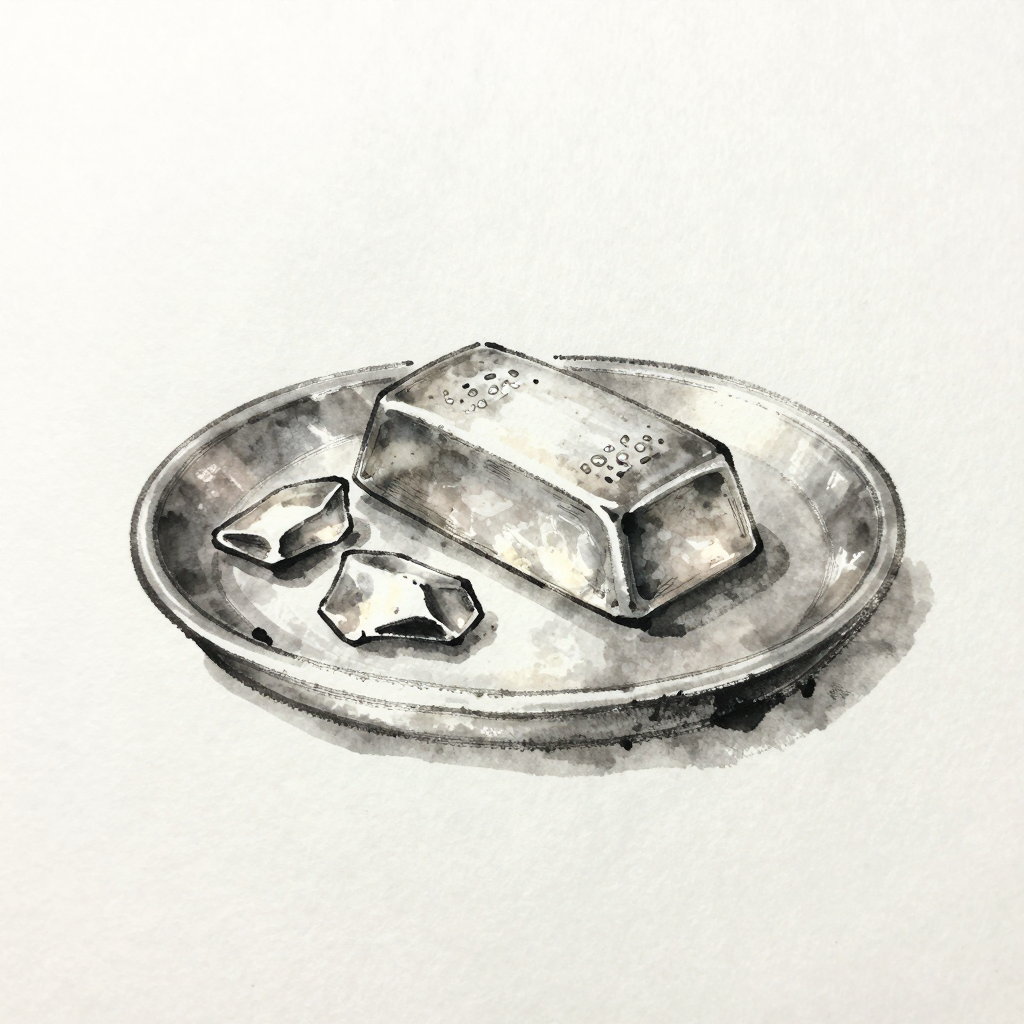
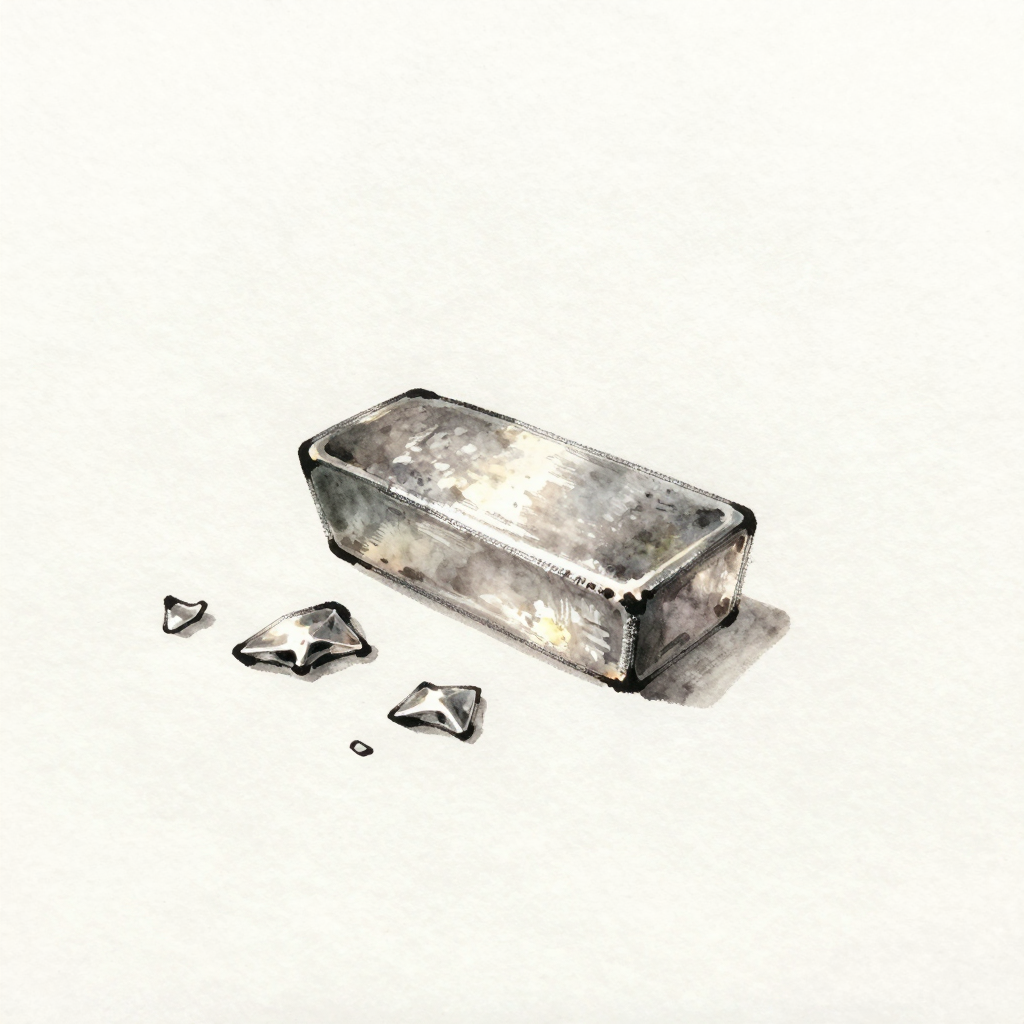
账簿贴图返工：去掉母题带出的多余器物，并新增生图纪律文档
发现第三批验收有漏项：当时只查「零人物/无可读文字/主体居中」，没查「画面里的
器物是否属于这一笔账目」。拼图复核 14 张后发现 5 张有多余器物：
- 封肃地租银：多一只托盘（母题写「静置托盘之上」，与 STYLE_OBJECT「不要画盘子托着它」直接冲突）
- 雨村二两：多一只粗陶碟
- 烧埋银子：多一盏孤灯
- 甄家谢礼：多一整套茶罐杯罐
- 贾政官印：印面是能读的篆字（违反「不要文字」）

根因：母题是唯一被真正渲染的正文，风格基底里的否定句权重很低。母题里出现的
任何名词都会被画出来——包括承托物与陪衬。修法是从母题里删掉，不是加否定句。

- 重生成 5 张（串行、--keep-old 零删除），母题改为只写主体本身与自身纹理，
  官印改用「兽形印钮 + 光素印面」的形状描述以免画成普通石块
- 命名归一化：生效图升回 -01.png，旧图归档为 _v{n}，零删除
- webp 与生效源图用 64x64 灰度 MSE 对齐（webp 有损，MD5 不可用），实测 d=0.52~0.63
- 线上核验：五张均为新图（与新源图 d≈0.5，与旧 _v2 d=34~50）
- 新增 docs/production/art-prompting.md：母题写法、逐条验收清单、--keep-old 双落盘
  路径与命名归一化、webp 的 MSE 对齐、串行队列与报错判读
- art.md / verification.md / README.md 建立入口与故障条目

验证：check:content 通过（文档 17→18）、49 单测绿、online-ledger 线上复验绿、
已部署 stone.yan.pub（服务器端 443→200）

Changed region(s): [[0.125, 0.3125, 0.9375, 0.7812]]

diff --git a/art/cards/gen_ledger.py b/art/cards/gen_ledger.py
@@ -37,6 +37,12 @@ os.makedirs(PUB, exist_ok=True)
 #    甚至在荒田朽屋这种绝不该有瓶子的场景里立一只巨瓶。
 #    —— 故把风格基底拆成两套：器物用「只有母题那一两件东西、其余全空」，
 #    风景用「只有自然景物、没有任何器物」，并且不再出现会召唤瓶罐的品类词。
+# 4) 【最关键的一条】母题是唯一被真正渲染的正文，风格基底里的否定句权重很低。
+#    母题写了「静置托盘之上」「置于粗陶碟中」「旁边一盏孤灯」「什物杂陈」，
+#    模型就把托盘/碟子/灯/茶罐画了出来——哪怕 STYLE_OBJECT 明写「不要画盘子托着它」。
+#    推论：**母题里出现的任何名词都会被画出来**，所以母题只准包含该笔账目
+#    真正涉及的东西，连「陪衬」都不行；承托物（盘、碟、案、桌）同样是多出来的。
+#    验收清单也必须逐条查「器物是否属于这一笔」，只查「零人物/无文字」会漏。
 STYLE_BASE = ("手绘插画风格：写意水墨、潇洒笔触、大面积留白；"
               "保留明显手绘笔压、停顿与轻微不齐整感，让轮廓产生真实纸上绘制的节奏；"
               "上色保留透明叠染、柔软边缘和纸纹，允许轻微颜色不均与留白。"
@@ -68,22 +74,22 @@ STYLE_LAND = (STYLE_BASE +
 SUBJECTS = {
     # --- 银两 money ---
     "ledger.yucun-winter-clothes": ("两件厚实的旧棉冬衣平铺叠放，灰蓝布面、絮棉微露、针脚粗朴，占据画面中央", STYLE_OBJECT),
-    "ledger.fengsu-land-money": ("一锭白银与几枚散碎银角静置托盘之上，金属泛冷光、边缘磨损，占据画面中央", STYLE_OBJECT),
+    "ledger.fengsu-land-money": ("一锭白银与几枚散碎银角并排散在画面中央，金属泛冷光、边缘磨损，四周一片空白", STYLE_OBJECT),
     "ledger.shiyin-poor-land": ("一片荒薄田地，远处几间歪斜朽屋，茅草零落、篱笆残破，空旷寂寥的远景风景，占据画面中央", STYLE_LAND),
-    "ledger.yucun-fengsu-2liang": ("两枚小银锭并排置于粗陶碟中，器皿朴拙、光泽内敛，占据画面中央", STYLE_OBJECT),
+    "ledger.yucun-fengsu-2liang": ("两枚小银锭并排卧在画面中央，形体敦实、光泽内敛、边缘有细密錾纹，四周一片空白", STYLE_OBJECT),
     "ledger.zhen-silver": ("两封束好的银子以红纸包就，封口压痕可见，静静并列，占据画面中央", STYLE_OBJECT),
     "ledger.zhen-brocade": ("四匹锦缎层层叠放成一摞，织金云纹在缎面流动、边缘垂坠，占据画面中央", STYLE_OBJECT),
     "ledger.fengsu-baijin": ("一只鼓胀饱满的锦囊静置案上，囊口金线束紧、垂坠如水，占据画面中央", STYLE_OBJECT),
-    "ledger.zhen-thanks-goods": ("数件什物杂陈：布匹、茶罐、纸包散而不乱，静物一组，占据画面中央", STYLE_OBJECT),
+    "ledger.zhen-thanks-goods": ("两三份用红纸包好、用细绳捆扎的谢礼包裹，并排散在画面中央，纸面有细密折痕与绳结", STYLE_OBJECT),
     "ledger.fengyuan-silver": ("一只旧木箱敞开，内中白银满箱、缎光溢出箱沿，占据画面中央", STYLE_OBJECT),
-    "ledger.feng-burial-silver": ("素白封套内裹着纸钱与银锭，旁边一盏冷落孤灯，静物一组，占据画面中央", STYLE_OBJECT),
+    "ledger.feng-burial-silver": ("一只素净的白色封套半开着，里头露出几张纸钱与两枚小银锭，封套皱折、纸钱微露边角，占据画面中央", STYLE_OBJECT),
     # --- 衣物 clothing ---
     "ledger.xifeng-cloth": ("两匹裁好的缎子折叠齐整，缎面流光、边幅未动，占据画面中央", STYLE_OBJECT),
     # --- 物件 item ---
     # 荐书是「一纸文书」，鱼符是刻鱼形的木牌，都不是活物，更不是瓶子。
     "ledger.ruhai-recommendation": ("一枚扁平的长方形木牌，上面刻着一条鱼的纹样，木纹清晰，占据画面中央", STYLE_OBJECT),
     # 官凭是「盖了朱印的空纸」，纸面不写名字；印是另一枚器物，可以有。
-    "ledger.zheng-restoration": ("一枚小小的方形官印立着，印面朝前，印面刻着简洁的阳文纹样，占据画面中央", STYLE_OBJECT),
+    "ledger.zheng-restoration": ("一方小巧的官印仰卧在画面中央，顶部雕着一只蜷曲的兽形印钮，印面朝上完全光素、没有任何字或纹样，印身是细腻的青石并镶着一圈暗红边", STYLE_OBJECT),
     "ledger.yucun-letters": ("一只素净的白信封，封缄压好，封皮上没有任何字迹，占据画面中央", STYLE_OBJECT),
 }
 

diff --git a/docs/production/art-prompting.md b/docs/production/art-prompting.md
@@ -1,0 +1,196 @@
+# 生图纪律：母题、验收与落盘
+
+> 适用范围：本项目一切 AI 生图（册页卡片、账簿贴图、人物立绘、家具批次）。
+> 上级规范见 [画风、角色与资产生产](art.md)；通用工具纪律见 `.local-tools/local-image-studio/SKILL.md`。
+> 来源：账簿贴图四轮迭代（`e124514`、`274d4c6`）与一次返工（本文档记录的那次）。
+
+## 一、核心心法
+
+> **母题里出现的任何名词都会被画出来。**
+>
+> 风格基底里的否定句权重很低；母题才是被真正渲染的正文。
+> 所以「不要什么」写在母题里没用——**要把「不要」的东西从母题里拿掉**。
+
+这是一条贯穿全文的规则。下面所有细则都是它的推论。
+
+## 二、四轮迭代的教训
+
+账簿 14 张贴图走了四轮才合格，每轮暴露一类问题：
+
+| 轮次 | 问题 | 根因 | 修法 |
+| --- | --- | --- | --- |
+| 一 | 7/11 张出现「裁头人物」 | 母题写「置于案上」，诱出半身人物去摆东西 | 正文写死「无人物、人体、面孔、手臂、衣袍」 |
+| 二 | 4 张生图脚本直接崩 | `--keep-old` 下旧图已改名，`dest` 原路径不存在 | 统计实际落盘的那个文件，不是原路径 |
+| 三 | 瓶+罐+碗三件套；荒田朽屋里立起巨瓶 | 「古风器物」「静物」是**绘画品类词**，模型照静物范式摆陪衬 | 删掉品类词，风格基底拆成器物/风景两套 |
+| 四 | 托盘、碟子、孤灯、茶罐、什物杂陈 | **母题自己写了这些陪衬物** | 从母题里删掉承托物与陪衬，只留主体 |
+
+第四轮最关键：修完母题才发现前一轮的验收清单**本身就漏了一项**——当时只查「零人物 / 无可读文字 / 主体居中」，没查「画面里的器物是否属于这一笔账目」。
+
+> **教训：验收清单也会漏项。清单要逐条对照母题写，不能凭印象列。**
+
+## 三、母题怎么写
+
+### 3.1 不谈品类，只谈「这一件东西」
+
+品类词（器物、静物、古风、美食）自带范式，模型会照范式补齐陪衬。
+
+```
+❌ "古风器物：白银与锦缎"          → 银、缎、瓶、罐、碗一起出现
+❌ "静物一组：布匹、茶罐、纸包"      → 母题列什么就画什么，还会被补齐
+✅ "一锭白银与几枚散碎银角并排散在画面中央，四周一片空白"
+```
+
+器物类与风景类要**分开写风格基底**：
+
+| 类别 | 风格基底要点 |
+| --- | --- |
+| 器物 | 主体占画面大部分，其余完全是空白的宣纸；不画桌子、不画盘子托着它、不添置瓶瓶罐罐 |
+| 风景 | 只有自然景物与破败屋舍；不出现任何器物、器皿、人物 |
+
+### 3.2 承托物也是多出来的
+
+「静置**托盘**之上」「置于粗陶**碟**中」「**案**上」——这些词会各自画出一件器物。
+
+即使风格基底写着「不要画盘子托着它」，只要母题写了「托盘」，模型就会画托盘（实测：托盘照画不误）。
+
+**母题只写主体本身，以及主体自身的纹理、颜色、光泽，不写它放在哪儿。**
+
+### 3.3 主体要完整居中
+
+```
+✅ "占据画面中央"、"四周一片空白"
+✅ "主体完整、居中"
+```
+
+「置于案上」让主体被裁或被陪衬挤到边角；「摆在中央」才留得住。
+
+### 3.4 语义要精确到不歧义
+
+| 母题 | 实际画成 | 改法 |
+| --- | --- | --- |
+| 「半枚鱼符」 | 一条活鱼 | 「刻着一条鱼形纹样的木牌」 |
+| 「盖着朱红方印的空白官凭」 | 纸上出现可读红字「怡红院」 | 「一枚小小的方形官印立着」 |
+| 「印面刻着简洁的阳文纹样」 | 印面是能读的篆字 | 「朝上的一面是一块完全光素的平面、像未经刻字的素石」 |
+| 「印面朝前的一块素石」 | 一块普通方石 | 「顶部雕着一只蜷曲的兽形印钮」 |
+
+「纹样」会被理解成文字，「素石」会被理解成石头——**这类词要换成几何描述**。
+
+### 3.5 负向提示词不可靠
+
+zimage 的 `cfg=1.0`，`--negative` 参数**存在但官方忽略**。只能靠正向正文约束，即：把不该出现的从母题里删掉，而不是加否定句。
+
+## 四、验收清单
+
+每张图逐条对照，**逐条**过，不凭印象：
+
+- [ ] **画面里的每一件东西，都能在母题里找到出处**（含承托物、陪衬）
+- [ ] 主体完整、居中，未被裁切、未被陪衬挤到边角
+- [ ] 无人物、人体、面孔、手臂、衣袍
+- [ ] 无可读文字、拉丁字母、水印、签名；「纹样」处不是能读的字
+- [ ] 其余是空白宣纸，没有多出来的桌、案、盘、碟、罐、灯
+- [ ] 风格与项目一致（写意水墨、留白、纸纹）
+- [ ] 尺寸与落点符合该批次的运行约定
+
+**用拼图审图，不要一张张看。** 14 张各看一遍容易漏；拼成 4×4 网格一眼就能看出哪格多了东西。拼图脚本见下。
+
+```sh
+/opt/homebrew/bin/python3 - <<'PY'
+import os, glob
+from PIL import Image
+names = sorted(os.path.basename(p)[:-4] for p in glob.glob('art/cards/source/ledger_*.png')
+               if '_v' not in os.path.basename(p))
+imgs = [(n, Image.open(f'art/cards/source/{n}.png').convert('RGB').resize((320, 320))) for n in names]
+cols = 4; rows = (len(imgs) + cols - 1) // cols
+sheet = Image.new('RGB', (cols * 320, rows * 320), (255, 255, 255))
+for i, (_, im) in enumerate(imgs):
+    sheet.paste(im, ((i % cols) * 320, (i // cols) * 320))
+sheet.save('artifacts/ledger-art-sheet.png')
+PY
+```
+
+> 注意：系统 `python3` 没有 numpy/PIL；用 `/opt/homebrew/bin/python3`。
+
+## 五、落盘与命名
+
+### 5.1 `--keep-old` 有两条落盘路径
+
+```sh
+$SCRIPT generate --prompt "..." --name X --keep-old --out DIR
+```
+
+| 目标是否已存在 | 结果 |
+| --- | --- |
+| 已存在 | 旧图改名 `X_v{n}.png`（n 递增），**新图落 `X_new.png`** |
+| 不存在 | 直接写 `X.png` |
+
+所以「取最新的一张」**必须按 mtime 排并排除 `_v` 归档**，不能只认 `_new`：
+
+```python
+def latest_source(name):
+    """--keep-old 有两种落盘路径：目标已存在时旧图改名 _v{n}、新图落 _new；
+    目标不存在时直接写原名。所以「最新」要按 mtime 排，不能只认 _new——
+    否则第二次重生成时会把上一轮的 _new 当成新图，转出错的 webp。"""
+    cands = [c for c in glob.glob(os.path.join(SRC, f"{name}*.png"))
+             if "_v" not in os.path.basename(c)]
+    if not cands:
+        return None
+    return max(cands, key=os.path.getmtime)
+```
+
+### 5.2 命名归一化
+
+重生成后把生效图**升回规范名**，旧图归档为 `_v{n}`，**零删除**：
+
+```python
+src = latest_source(name)          # 生效的那张
+canon = f"{name}.png"
+if os.path.basename(src) != canon:
+    if os.path.exists(canon):      # 旧规范名归档
+        k = 1
+        while os.path.exists(f"{name}_v{k}.png"): k += 1
+        shutil.move(canon, f"{name}_v{k}.png")
+    shutil.move(src, canon)
+```
+
+`.gitignore` 只忽略 `*_v[0-9]*.png` 与 `_rejected-*/`——**生效图必须入库**，它是权威源。
+
+### 5.3 webp 不能用 MD5 对齐
+
+webp 是有损压缩（q=84），MD5 与 PNG 永远不一致。改用 64×64 灰度像素的 MSE 距离：
+
+```python
+def mse(a, b):
+    a = np.asarray(Image.open(a).convert('L').resize((64, 64)), dtype=float)
+    b = np.asarray(Image.open(b).convert('L').resize((64, 64)), dtype=float)
+    return float(np.sqrt(((a - b) ** 2).mean()))
+```
+
+阈值 `d < 5` 视为同一张。实测 14 张全部 `d < 0.7`。
+
+对齐时还要在**全部候选**里找最近的那张，确认它就是当前生效图：
+
+```python
+cands = sorted((mse(p, tmp), os.path.basename(p)) for p in glob.glob(f"{name}*.png"))
+assert cands[0][1] == f"{name}.png", "webp 不是由当前生效图转出的"
+```
+
+## 六、串行与队列
+
+- **同一主机单进程串行**；已有队列先等空，绝不清队列、绝不取消他人作业。
+- 提交前查 `curl -s http://192.168.4.66:8188/queue`，`queue_running` 与 `queue_pending` 都空才提交。
+- `--max-queue-depth 0` 是提交闸门，调用端仍应等待已有任务完成。
+- 不要并行增加作业尝试「加速」。曾经并行导致 ComfyUI 进程挂掉、需人工重启。
+
+## 七、报错与判读
+
+| 现象 | 实际原因 |
+| --- | --- |
+| `FileNotFoundError: dest.stat()` | `--keep-old` 下旧图已改名、`dest` 原路径不存在；统计实际落盘的文件 |
+| 生成了但图没变 | `latest_source` 取错了图（只认 `_new`）；按 mtime 取 |
+| 线上还是旧图 | 忘了重跑 `npm run art:webp`，或 URL 没有内容版本号 |
+| 图里有多余器物 | 母题里写了它——**去改母题，不要加否定句** |
+
+## 八、一句话总结
+
+> 母题是唯一被渲染的正文。写母题时，**每多写一个名词，画面就多一件东西**；
+> 风格基底与否定句救不了你，唯一可靠的办法是从母题里把它删掉。

diff --git a/docs/production/verification.md b/docs/production/verification.md
@@ -54,6 +54,7 @@ python3 scripts/verify_character_identities.py
 | 室内外/朝向 | 内容检查、`node tests/interior-roof.mjs`（外观随室内占位隐藏/恢复、按栋隔离）、`node tests/actor-facing.mjs`（行走帧与立绘镜像一致，含表情变体按自身朝向裁决；静止与到达帧的朝向由引擎按站位写入，seek 重放与顺序播放结果一致）、`story_path_cells.py`（新陈设不挡路）、全节点引擎与浏览器回归 |
 | 新增/重画人物位图 | `python3 scripts/facing_assets.py`（按资产键多裁切投票测量）→ `python3 scripts/build_facing.py`（合并目视裁决，生成 `design/character-facing.json`）→ `node tests/actor-facing.mjs`；`check:content` 会检查每张位图都有朝向记录 |
 | 资产/新人物 | 原图参数/候选留存、透明度报告、暗底接触表、脸部灰度与配对、位置/尺寸、浏览器加载 |
+| AI 生图贴图 | 逐条对照母题验收（画面里每件东西都能在母题找到出处）、拼图审图、webp 与生效源图 MSE 对齐，见 [生图纪律](art-prompting.md) |
 | 页面/CSS | 三视口、换立绘不跳高、按钮命中、缩放可读性、弹窗暂停、键盘操作；尺寸类问题加 DOM 实测（`getBoundingClientRect`），详见 [UI 改造的诊断纪律](ui-diagnosis.md) |
 | 新回/存档 | 全流程、新旧中段及旧终幕迁移、坏档恢复、所有演员状态、回看历史无重复 |
 
@@ -89,6 +90,9 @@ python3 scripts/verify_character_identities.py
 | 贴图一直不加载 | 给 `IntersectionObserver` 的 root（`dialog`）或其祖先加了 `overflow`；视口内外各验一次 |
 | 文字排版看着都一样大 | 祖先的通用规则特异性更高（`.atlas-body p` 0,1,1 压过 `.bond-note` 0,1,0）；补同等特异度，改后实测计算字号 |
 | 卡片大小不一 | 内容字数不同导致外框变化；同类卡片外框尺寸必须唯一，文字折行数固定 |
+| 生图里多了没要的器物 | 母题里写了它（托盘/碟子/灯/陪衬）；**从母题删掉**，加否定句无效 |
+| 生成了但图没变 | `latest_source` 只认 `_new` 取错图；按 mtime 取并排除 `_v` 归档 |
+| webp 与源图对不上 | webp 是有损压缩，MD5 不可用；用 64×64 灰度 MSE（阈值 d<5）判定 |
 
 ## 交接格式
 

diff --git a/docs/production/README.md b/docs/production/README.md
@@ -11,6 +11,7 @@
 | [新回目制作流程](chapters.md) | 从原文拆解到脚本接入、地图接入、跨回存档 |
 | [原著考据与改编](research.md) | 底本、人物身份、时间层、空间证据与推定 |
 | [画风、角色与资产生产](art.md) | 保持画风、解决同脸、串行生成、抠图与校准 |
+| [生图纪律：母题、验收与落盘](art-prompting.md) | 母题怎么写才不多画东西、逐条验收清单、`--keep-old` 落盘与命名归一化 |
 | [地图与 Tiled](maps.md) | 方位、格心投影、对象层、锚点、碰撞与道路 |
 | [网页展示与交互](ui.md) | 横版排版、稳定对白、行动表现、缩放与总览 |
 | [UI 改造的诊断纪律](ui-diagnosis.md) | 界面反馈的定位方法：DOM 实测优先、样式影响面、懒加载与等高的坑 |
